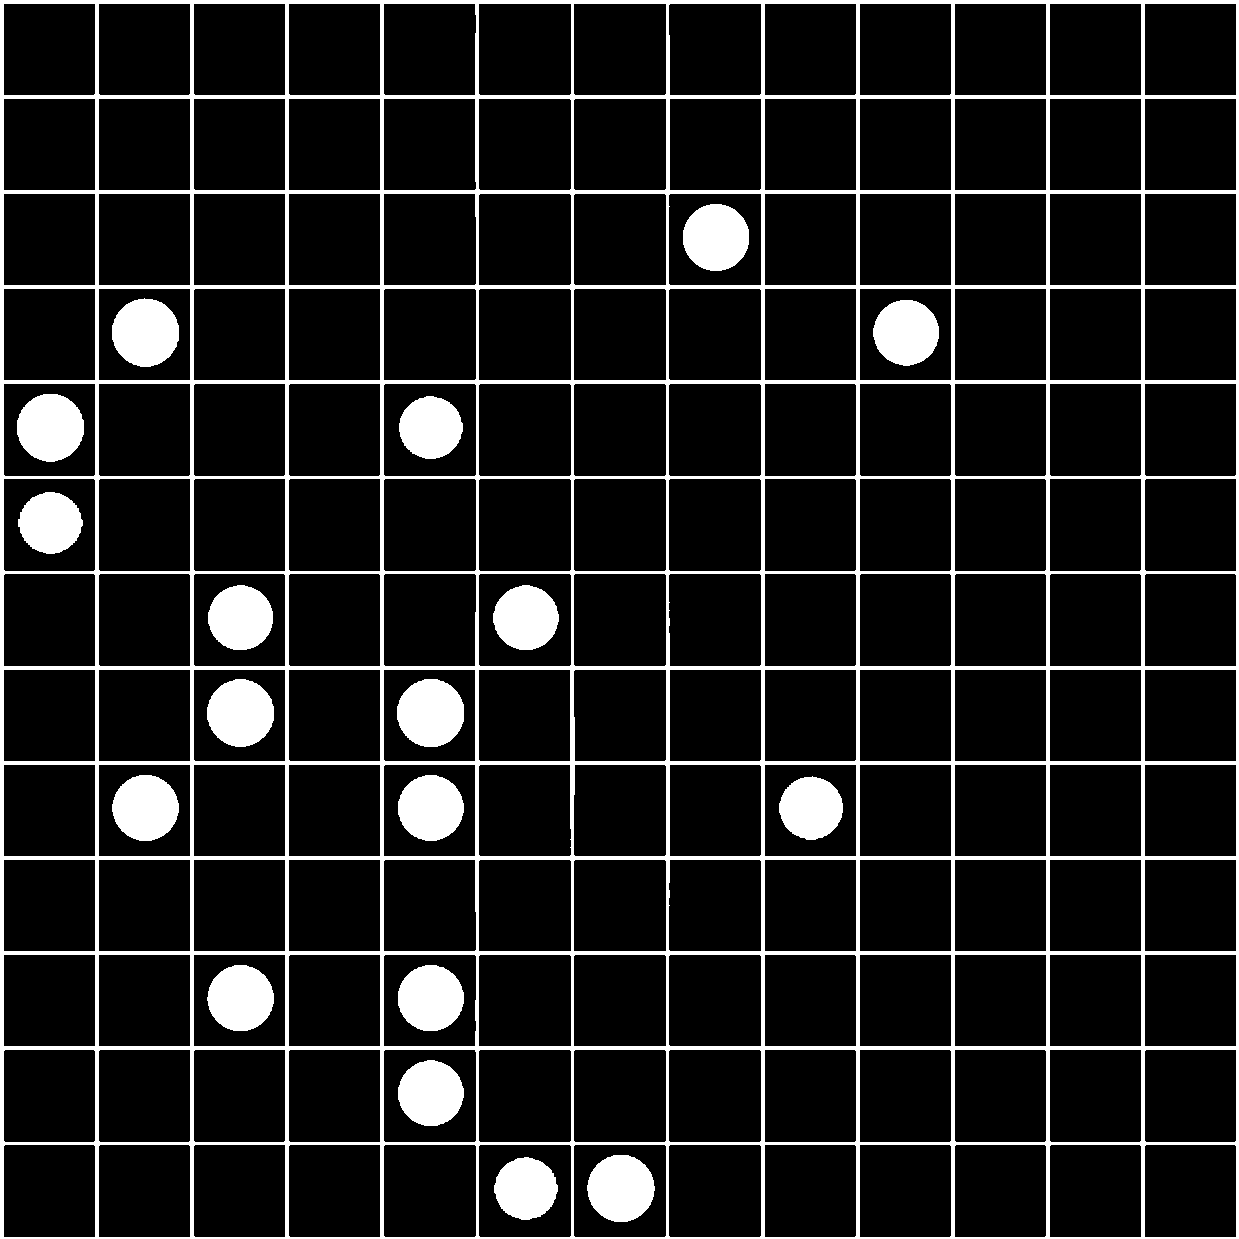
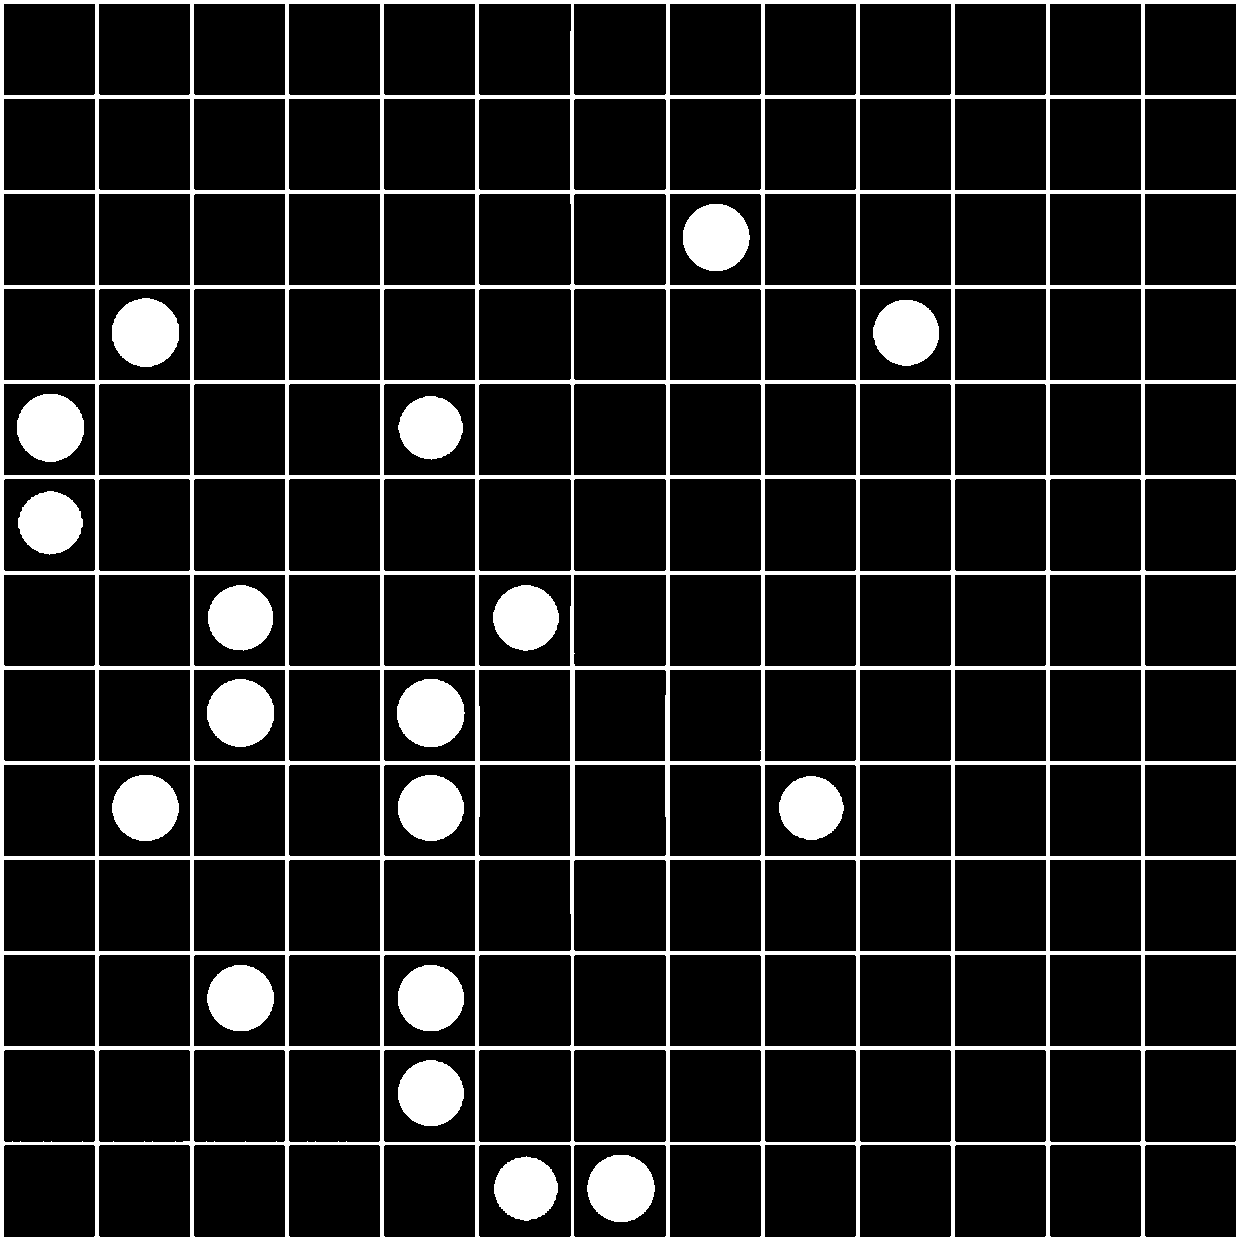
Update image-to-text feature: threshold, morphological closing transformation

Changed region(s): [[0.0307, 0.368, 0.0613, 0.3987]]

diff --git a/source/data/image2text.py b/source/data/image2text.py
@@ -4,9 +4,9 @@ import numpy as np
 
 ## Defined macros
 IMAGE_SCALE         = 0.5
-THRESHOLD           = 100
+THRESHOLD           = 50
 MIN_HW_LINE         = 500
-CLOSING_KERNEL      = 7
+BASE_KERNEL_SIZE    = 19
 ARC_LENGTH_SCALE    = 0.01
 CONTOUR_LENGTH      = 7
                     #           [ B    G    R    C ]
@@ -88,7 +88,7 @@ def original2grid(input_image):
     # cv2.imshow("Grayscale Image", grayscale_image)
 
     ## Threshold grayscale image
-    ret, threshold_image = cv2.threshold(grayscale_image, THRESHOLD, 255, cv2.THRESH_BINARY | cv2.THRESH_OTSU)
+    ret, threshold_image = cv2.threshold(grayscale_image, THRESHOLD, 255, cv2.THRESH_BINARY)
     # cv2.imshow("Threshold Image", threshold_image)
 
     ## Apply morphological transformation(s)
@@ -155,11 +155,12 @@ def cropped2standard(input_image):
     # cv2.imshow("Grayscale Image", grayscale_image)
 
     ## Threshold grayscale image
-    ret, threshold_image = cv2.threshold(grayscale_image, THRESHOLD, 255, cv2.THRESH_BINARY | cv2.THRESH_OTSU)
+    ret, threshold_image = cv2.threshold(grayscale_image, THRESHOLD, 255, cv2.THRESH_BINARY)
     # cv2.imshow("Threshold Image", threshold_image)
 
     ## Apply morphological closing transformation(s) to standardize threshold image for converting
-    closing_kernel = np.ones((CLOSING_KERNEL, CLOSING_KERNEL), np.uint8)
+    closing_kernel_size = BASE_KERNEL_SIZE - board_size
+    closing_kernel = np.ones((closing_kernel_size, closing_kernel_size), np.uint8)
     output_image = cv2.morphologyEx(threshold_image, cv2.MORPH_CLOSE, closing_kernel)
     # cv2.imshow("Output Image", output_image)
 

diff --git a/alpha-flow-free.py b/alpha-flow-free.py
@@ -5,8 +5,8 @@ def main():
     print("Start solving the puzzle ...")
 
     ## Get image path in root directory
-    # image_path = "./data/image/7x7_1.PNG"
-    image_path = "./data/image/13x13_1.PNG"
+    image_path = "./data/image/7x7_1.PNG"
+    # image_path = "./data/image/13x13_1.PNG"
 
     ## Convert data in root directory from image to text
     text_path = i2t.image2text(image_path)
